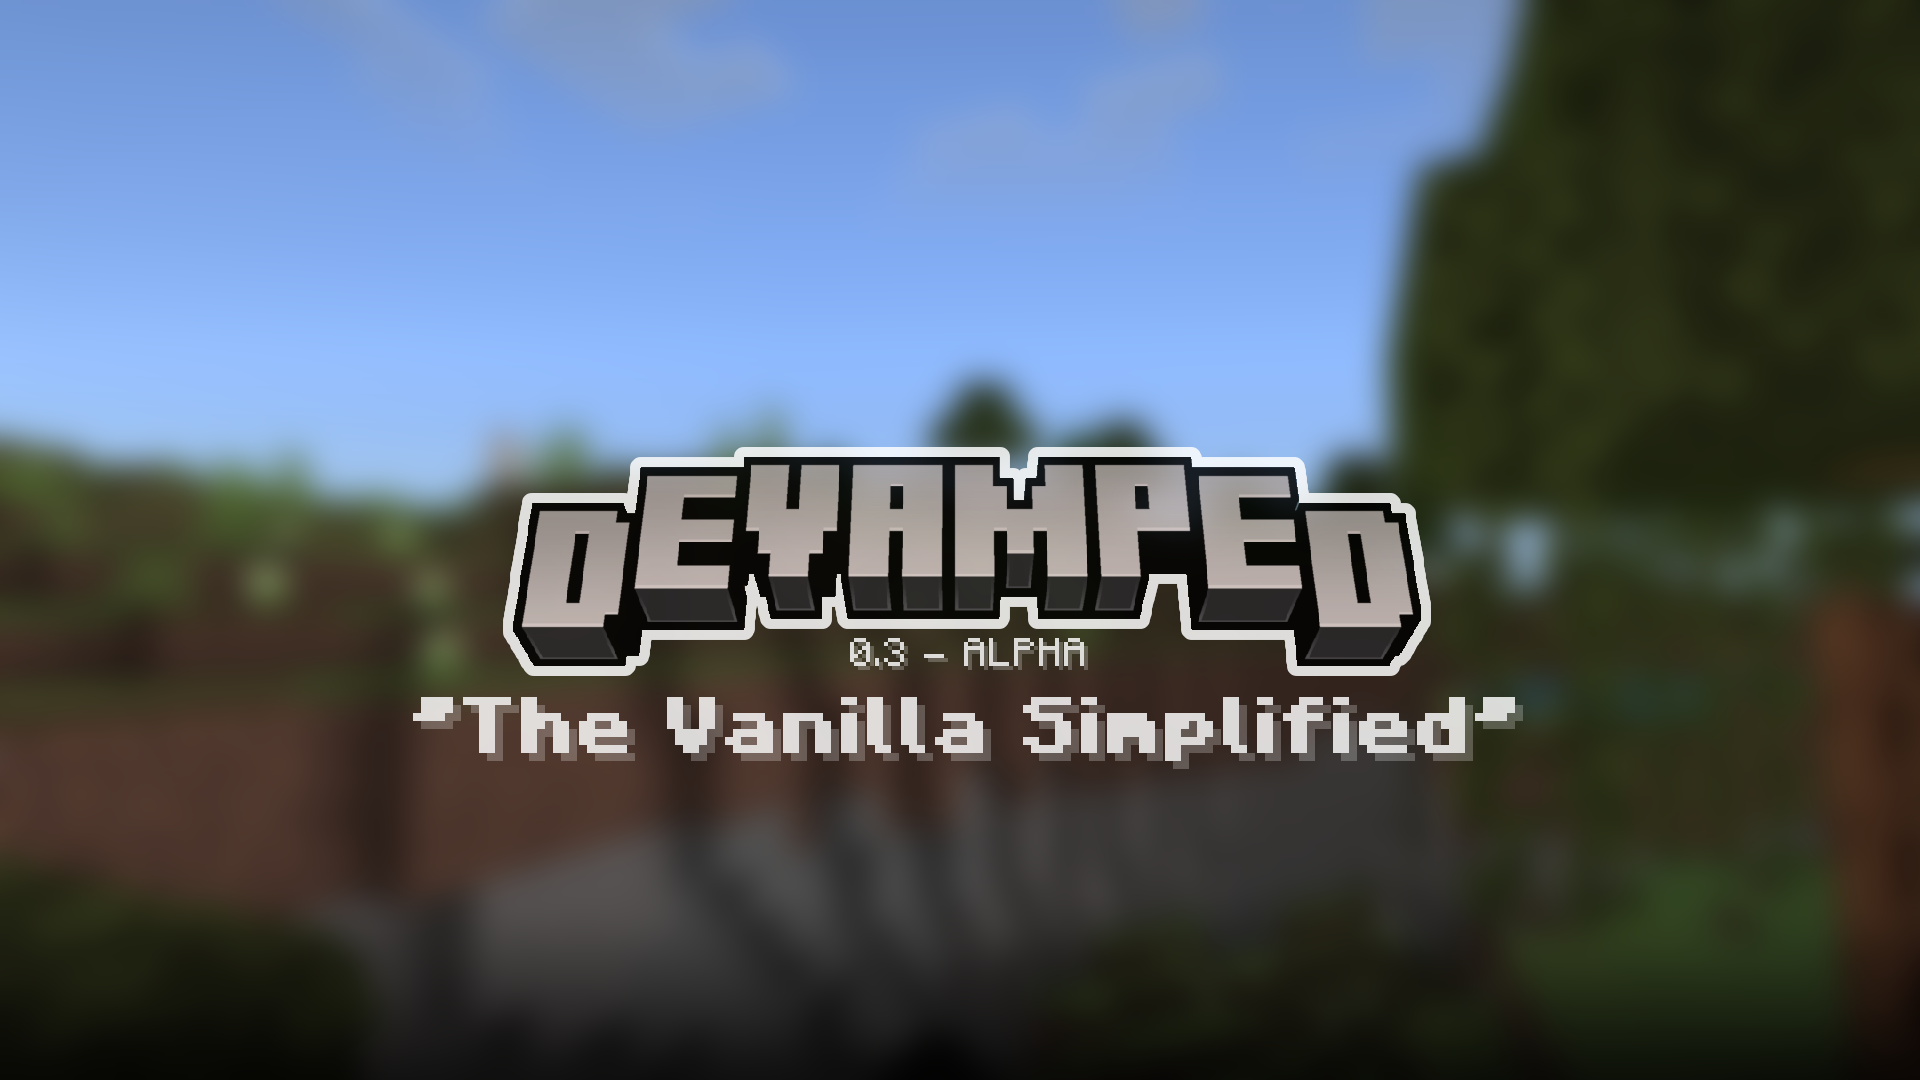
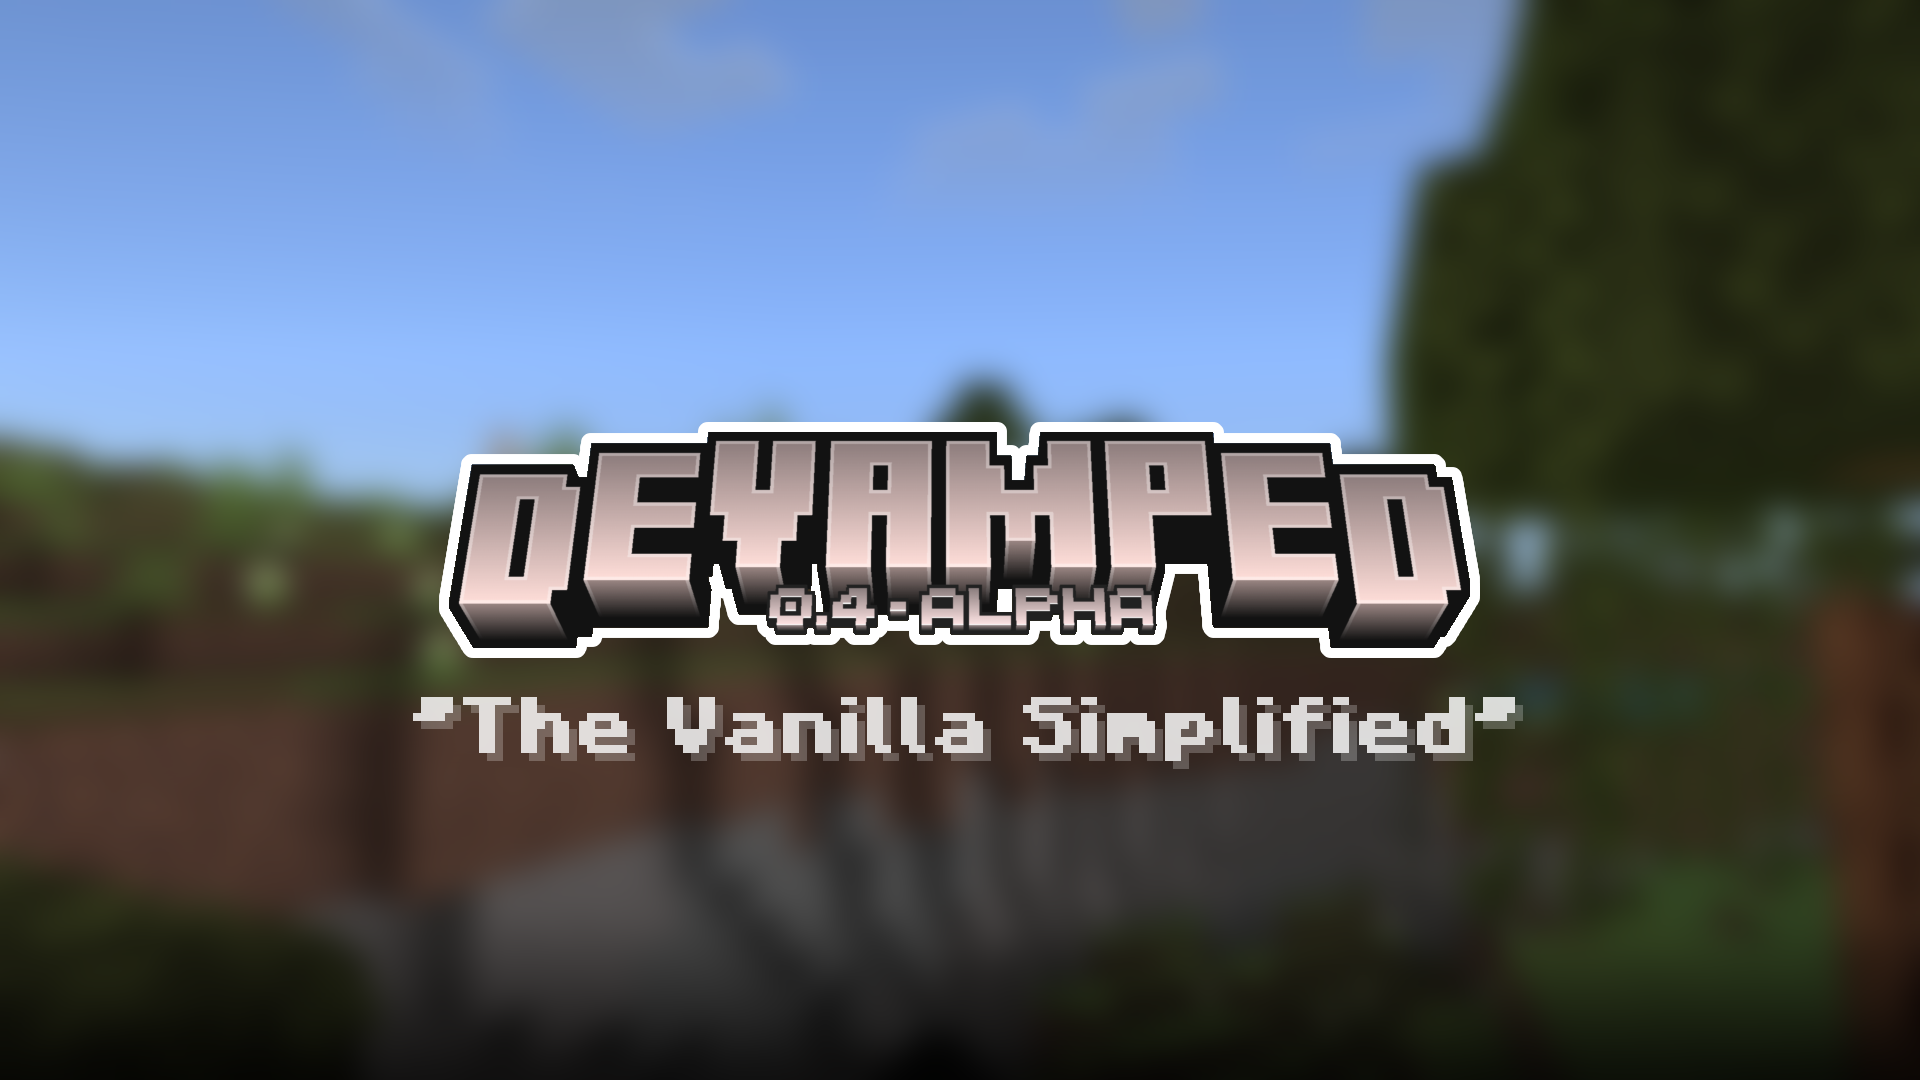
update

Changed region(s): [[0.2188, 0.3667, 0.7812, 0.6417]]

diff --git a/projects/devamped_changelog.html b/projects/devamped_changelog.html
@@ -20,7 +20,7 @@
       <pi style="font-size:150%;height:120%;"><b>DEVAMPED Changelog</b></pi>
       <hr style="height:4px;border-width:0;color:#9d9de4;background-color:#9d9de4;border-radius: 4px;margin-top: 0;margin-bottom: 0.5em;">
       <pi>The current DEVAMPED version are <b>0.3a04</b>. Devlogs is in our <a href="https://discord.gg/ZPAZvtprYa">Public Discord Server</a>.</pi>
-      <p>"0.3" are the main version, "a" stands for <b>Alpha</b>, and 02 are our number release.</p>
+      <p>"0.4" are the main version, "a" stands for <b>Alpha</b>, and 01 are our number release.</p>
       <p>For now, all update will be there. <b>pink shaped background indicates that this is latest update.</b></p>
       <uli>
         <li><a href="devamped.html">[ × Go back to DEVAMPED Page ]</a></li>
@@ -31,8 +31,48 @@
     <hr style="height:1px;border-width:0px;color:#E6E6FA;margin-bottom: 0.2em;margin-top: 0.2em;">
     
     <div style="background-color: #e3c4ef;padding: 8px;border-radius: 10px">
-      <pi style="font-size:150%;height:120%;"><b>(Latest) v0.3a06</b></pi>
+      <pi style="font-size:150%;height:120%;"><b>(Latest) v0.4-alpha-01</b></pi>
       <hr style="height:4px;border-width:0;color:#e09de4;background-color:#e09de4;border-radius: 4px;margin-top: 0;margin-bottom: 0.5em;">
+      <pi>Released in <b>Nov 6, 2023</b> | 604 Items, 249 GUIs, 292 Blocks, 42 Models.</pi>
+      <p>Quite big update, with no texture changes or anything else expect lantern</p>
+      <p><b>What's New?</b></p>
+      <pi><b>> New stuff</b></pi>
+      <uli>
+        <li>Added Lantern and soul block textures</li>
+        <li>Added jukebox and noteblock textures</li>
+        <li>Added Rail Tracks textures</li>
+        <li>Added Smithing table</li>
+        <li>Added Fletcher table</li>
+        <li>Added Ladder texture</li>
+        <li>Added Ender chest</li>
+        <li>Added Mob spawner</li>
+        <li>Added Lodestone</li>
+        <li>Added some missing UI textures</li>
+      </uli>
+      <pi><b>> Changes</b></pi>
+      <uli>
+        <li>Touch controls textures (old one are not included at the moment) are now changed into more brick designed buttons</li>
+        <li>Hotbars and highlight slot are now changed to look more like square and matching brick designed buttons</li>
+        <li>DEVAMPED logo now got a redesigned with more less bump and saturated</li>
+        <li>Experience bar outline now has been adjusted to look darker</li>
+        <li>Lantern as items now has adjusted color palette and to match block version</li>
+        <li>Version naming has been changed</li>
+      </uli>
+      <pi><b>> Bug fixes and miscellaneous</b></pi>
+      <uli>
+        <li>Fixed helmets not being aligned</li>
+        <li>Fixed Leather helmet having missing pixels</li>
+        <li>Optimized the pack size further</li>
+        <li>PMC/MCPEDL page will be updated with more clearer description and more goal progression related</li>
+        <li>'Term of service and usage' will now be on main Official page</li>
+      </uli>
+    </div>
+    
+    <hr style="height:1px;border-width:0px;color:#E6E6FA;margin-bottom: 0.2em;margin-top: 0.2em;">
+    
+    <div style="background-color: #c4c4ef;padding: 8px;border-radius: 10px">
+      <pi style="font-size:150%;height:120%;"><b>v0.3a06</b></pi>
+      <hr style="height:4px;border-width:0;color:#9d9de4;background-color:#9d9de4;border-radius: 4px;margin-top: 0;margin-bottom: 0.5em;">
       <pi>Released in <b>Oct 29, 2023</b> | 604 Items, 247 GUIs, 270 Blocks, 41 Models.</pi>
       <p>5K Downloads update as well final October Update!</p>
       <p><b>What's New?</b></p>

diff --git a/projects/devamped.html b/projects/devamped.html
@@ -44,8 +44,26 @@
       <img src="devamped_screenshot_04.jpg" alt="DEVAMPED" width="100%" style="border-radius: 8px">
     </div>
     <hr style="height:1px;border-width:0px;color:#E6E6FA;margin-bottom: 0.2em;margin-top: 0.2em;">
-  </body>
-</html>creenshot_05.jpg" alt="DEVAMPED" width="100%" style="border-radius: 8px">
+    <div style="background-color: #c4c4ef;padding:8px;border-radius: 10px">
+      <pi style="font-size:150%;height:120%;"><b>Terms of service and usage</b></pi>
+      <hr style="height:4px;border:none;border-width:0;color:#9d9de4;background-color:#9d9de4;border-radius: 4px;margin-top: 0;margin-bottom: 0.5em;">
+      <pi>Greetings, thanks for trying this texture pack! By downloading or using it, you may agree to the term of service and usage of the following "DEVAMPED".</pi>
+      <p>Last update: Nov 6, 2023 | 6:28(PM) GMT+7:00</p>
+      <p><b>You are permitted to:</b></p>
+      <uli>
+        <li>- Modify, changes and create for personal use.</li>
+        <li>- Make an showcase or review on social media platforms. *</li>
+        <li>- Use the pack on a local world or realm with your friends. *</li>
+      </uli>
+      <p><i>* Credit is appreciated, but are optional and are not be required.</i></p>
+      <p><b>You are NOT permitted to:</b></p>
+      <uli>
+        <li>- Create any external links for this pack. (e.g - shortcut links, or anything that monetize) Please link to official download websites like Github, PlanetMinecraft, MCPEDL and official devamped website.</li>
+        <li>- Redistribute this pack to another website without permissions</li>
+        <li>- Use any contents of this pack as commercial purposes or mixing with packs</li>
+        <li>- Claiming that the pack is yours</li>
+      </uli>
+      <pi><b>Ignoring this or doing something you're not allowed to may result me taking the post down or DMCA.</b></pi>
     </div>
     <hr style="height:1px;border-width:0px;color:#E6E6FA;margin-bottom: 0.2em;margin-top: 0.2em;">
   </body>
